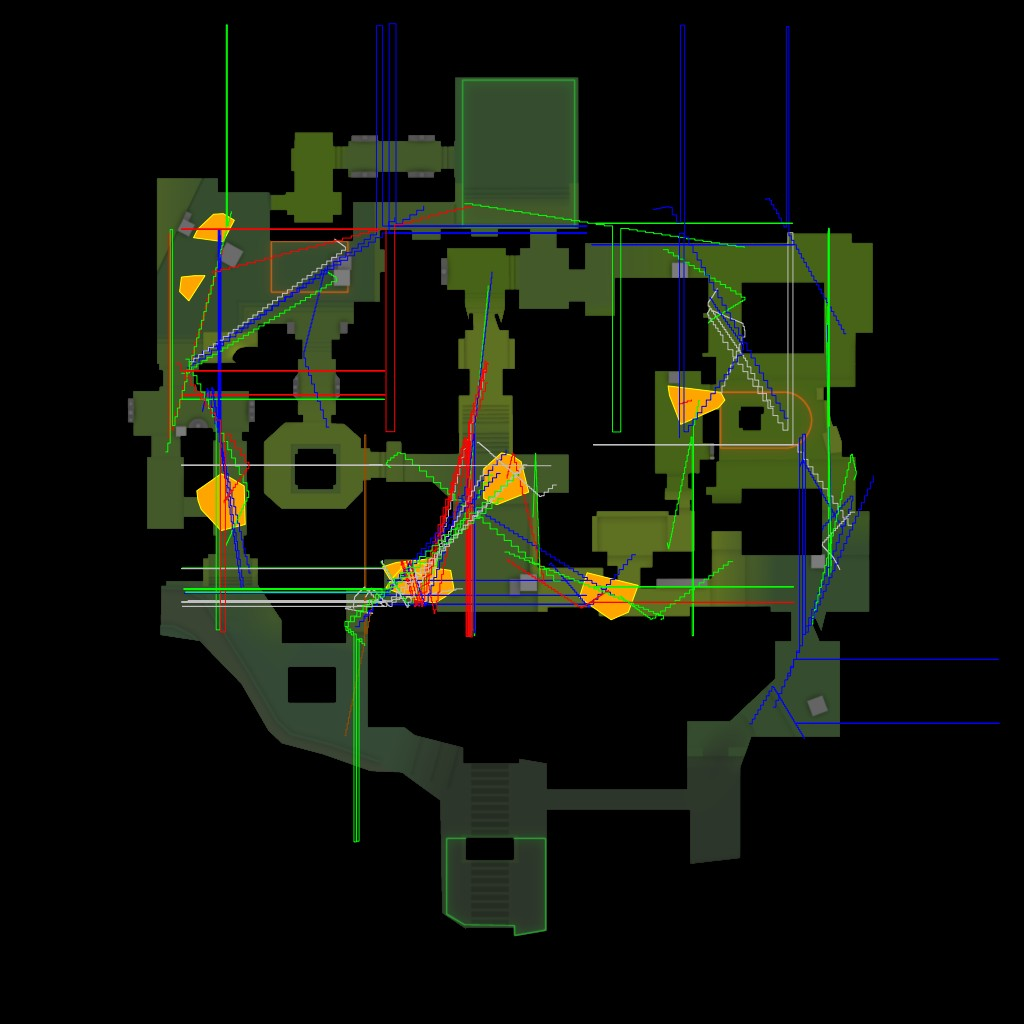
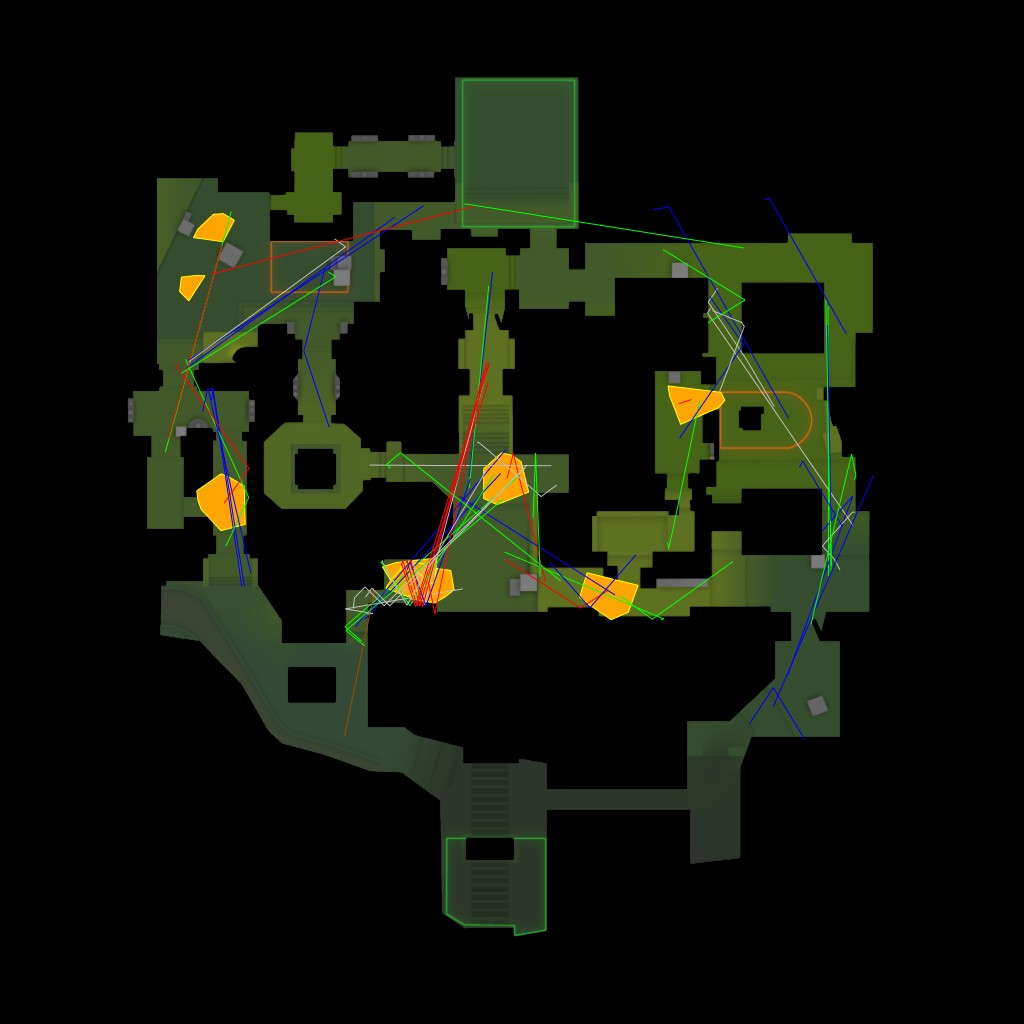
fix nade trajectories

Changed region(s): [[0.1562, 0.0312, 0.9688, 0.8125], [0.7812, 0.6875, 0.9688, 0.7188], [0.4688, 0.3438, 0.5, 0.375]]

diff --git a/pkg/demoinfocs/datatables.go b/pkg/demoinfocs/datatables.go
@@ -944,6 +944,16 @@ func (p *parser) bindGrenadeProjectiles(entity st.Entity) {
 			})
 		}
 
+		newPos := proj.Position()
+
+		proj.Trajectory = append(proj.Trajectory, newPos)
+
+		proj.Trajectory2 = append(proj.Trajectory2, common.TrajectoryEntry{
+			Position: newPos,
+			FrameID:  p.CurrentFrame(),
+			Time:     p.CurrentTime(),
+		})
+
 		if p.isSource2() && !p.disableMimicSource1GameEvents {
 			p.eventDispatcher.Dispatch(events.WeaponFire{
 				Shooter: proj.Owner,
@@ -957,6 +967,16 @@ func (p *parser) bindGrenadeProjectiles(entity st.Entity) {
 	})
 
 	entity.OnDestroy(func() {
+		newPos := proj.Position()
+
+		proj.Trajectory = append(proj.Trajectory, newPos)
+
+		proj.Trajectory2 = append(proj.Trajectory2, common.TrajectoryEntry{
+			Position: newPos,
+			FrameID:  p.CurrentFrame(),
+			Time:     p.CurrentTime(),
+		})
+
 		if p.demoInfoProvider.IsSource2() && wep == common.EqFlash && !p.disableMimicSource1GameEvents {
 			p.gameEventHandler.dispatch(events.FlashExplode{
 				GrenadeEvent: events.GrenadeEvent{
@@ -1010,16 +1030,6 @@ func (p *parser) bindGrenadeProjectiles(entity st.Entity) {
 		}
 	})
 
-	entity.OnPositionUpdate(func(newPos r3.Vector) {
-		proj.Trajectory = append(proj.Trajectory, newPos)
-
-		proj.Trajectory2 = append(proj.Trajectory2, common.TrajectoryEntry{
-			Position: newPos,
-			FrameID:  p.CurrentFrame(),
-			Time:     p.CurrentTime(),
-		})
-	})
-
 	// Some demos don't have this property as it seems
 	// So we need to check for nil and can't send out bounce events if it's missing
 	if bounceProp := entity.Property("m_nBounces"); bounceProp != nil {
@@ -1035,6 +1045,16 @@ func (p *parser) bindGrenadeProjectiles(entity st.Entity) {
 					BounceNr:   bounceNumber,
 				})
 			}
+
+			newPos := proj.Position()
+
+			proj.Trajectory = append(proj.Trajectory, newPos)
+
+			proj.Trajectory2 = append(proj.Trajectory2, common.TrajectoryEntry{
+				Position: newPos,
+				FrameID:  p.CurrentFrame(),
+				Time:     p.CurrentTime(),
+			})
 		})
 	}
 }
